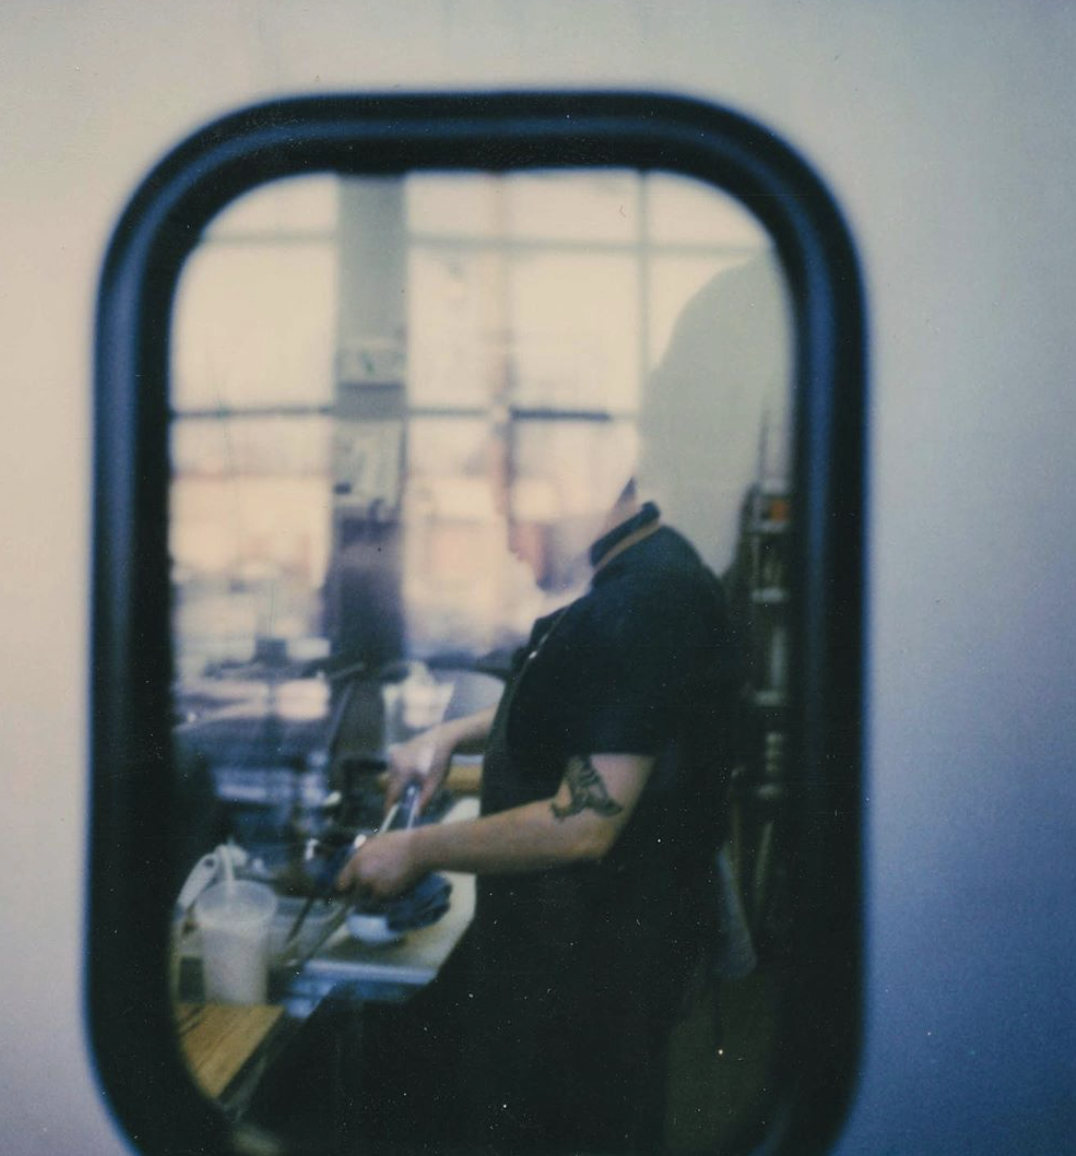
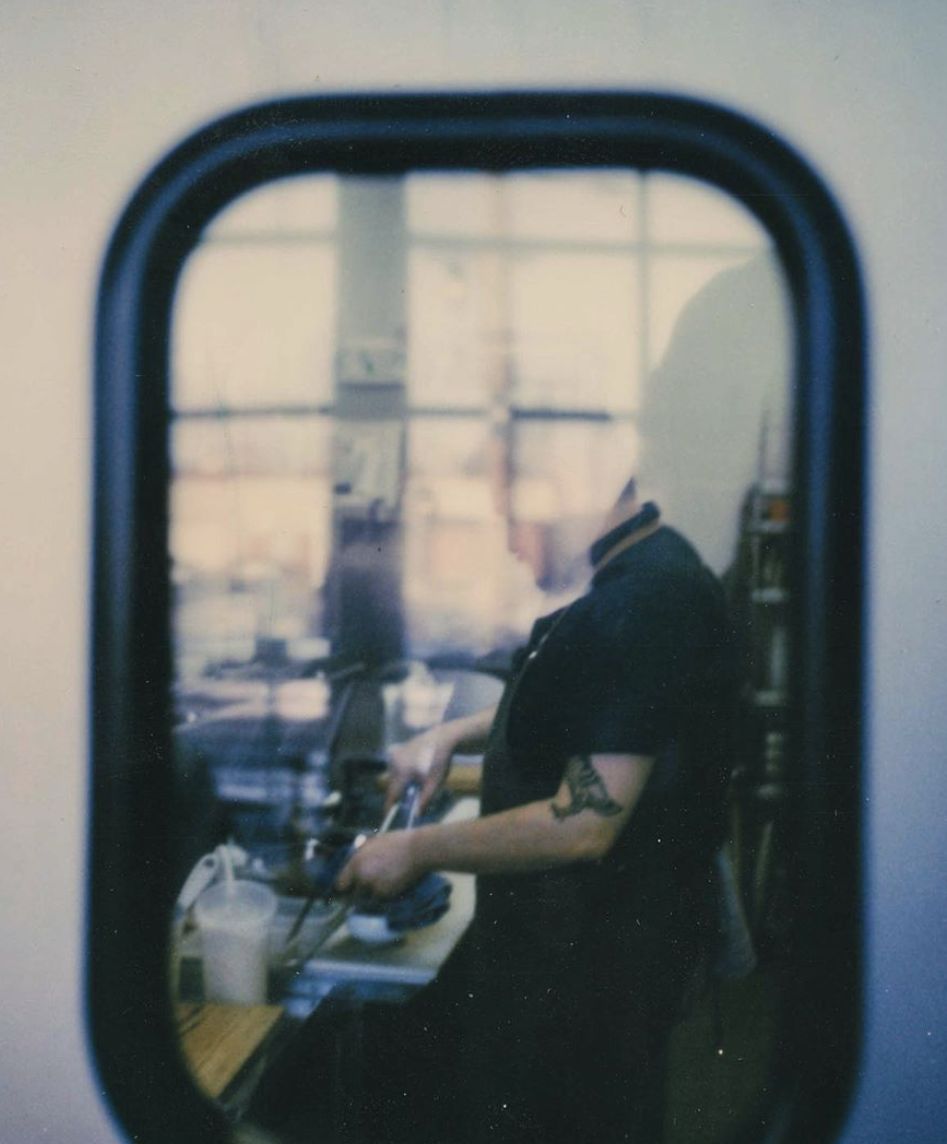
changed facts and photo

diff --git a/assignment/index.html b/assignment/index.html
@@ -15,14 +15,14 @@
       <h1>Travis J. Huss</h1>
     </header>
     <!-- Include an image -->
-    <img src="chefshot.png" alt="Old chef photo of Travis Huss by Connor Peck" height="578" width="538" class="photo">
+    <img src="chefshot.png" alt="Old chef photo of Travis Huss by Connor Peck" height="578" width="474" class="photo">
     <div id="connor">
       <p>photo: Connor Peck</p>
     </div>
     <!-- Create an unordered list with 3 list items of fun facts about you -->
     <ul>
-      <li>Born in San Antonio, Texas</li>
-      <li>Has lived in 5 different states.</li>
+      <li>Born in San Antonio, Texas and has lived in 5 states.</li>
+      <li>Once sat at the bar next to Zach Galifianakis, pre- The Hangover</li>
       <li>Has a BFA in Film Production and a minor in Film Studies.</li>
     </ul>
     <!-- Create a footer -->

diff --git a/assignment/style.css b/assignment/style.css
@@ -46,6 +46,7 @@ header {
   color: #fff8e1;
   opacity: 100%;
   grid-area: 1 / 1 / span 3 / 11;
+  width: 99%;
 }
 /* Make your p tag a different color and italic */
 p {
@@ -57,7 +58,6 @@ p {
 .photo {
   border: 10px double #1b1b1b;
   border-radius: 15%;
-  padding: 5px;
   grid-area: 3 / 6 / 13 / 10;
   z-index: 9;
 }
@@ -65,7 +65,7 @@ p {
 ul {
   font-family: 'Poppins', sans-serif;
   color: #fff8e1;
-  background-color: rgb(155, 189, 191, .8);
+  background-color: rgb(155, 189, 191, .85);
   border: 2px double #1b1b1b;
   padding-right: 10px;
   grid-area: 8 / 4 / span 2 / span 3;
@@ -82,6 +82,7 @@ body {
 footer {
   grid-area: 12 / 1 / 16 / 11;
   text-align: center;
+  width: 99%;
 }
 
 #connor {
